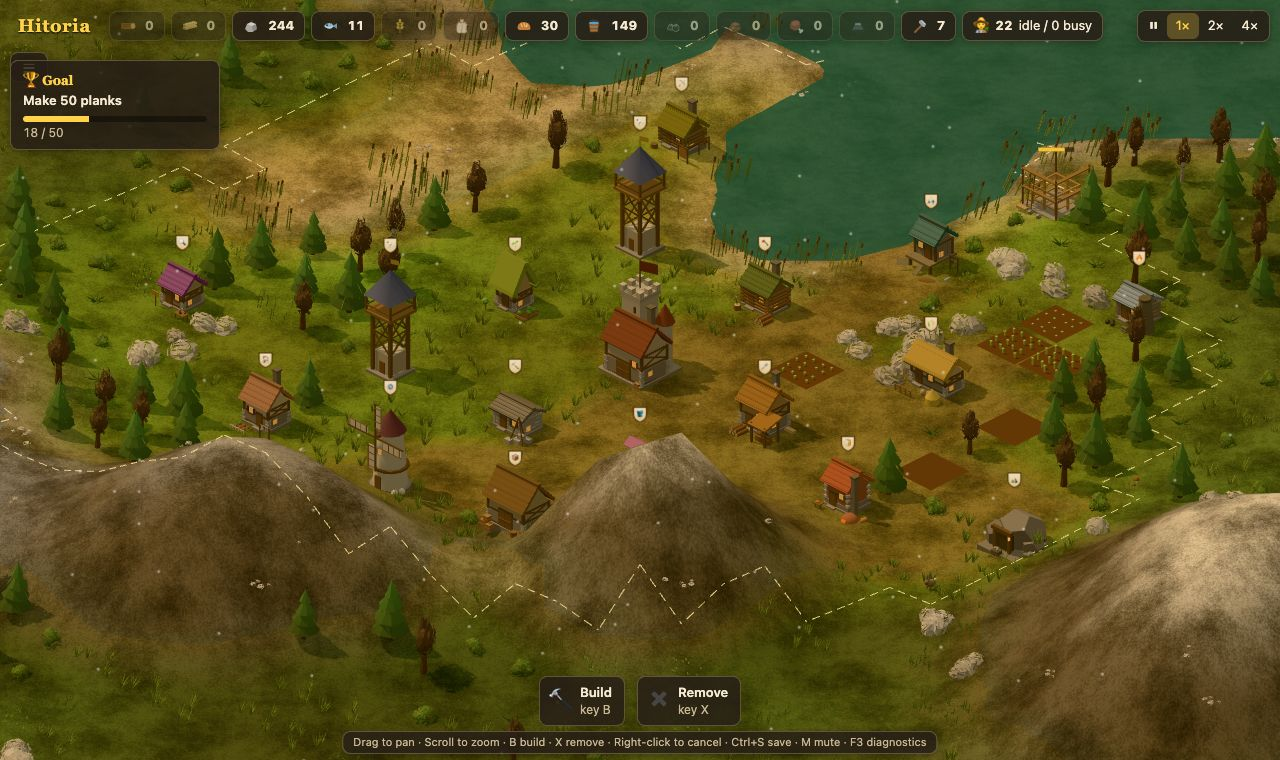
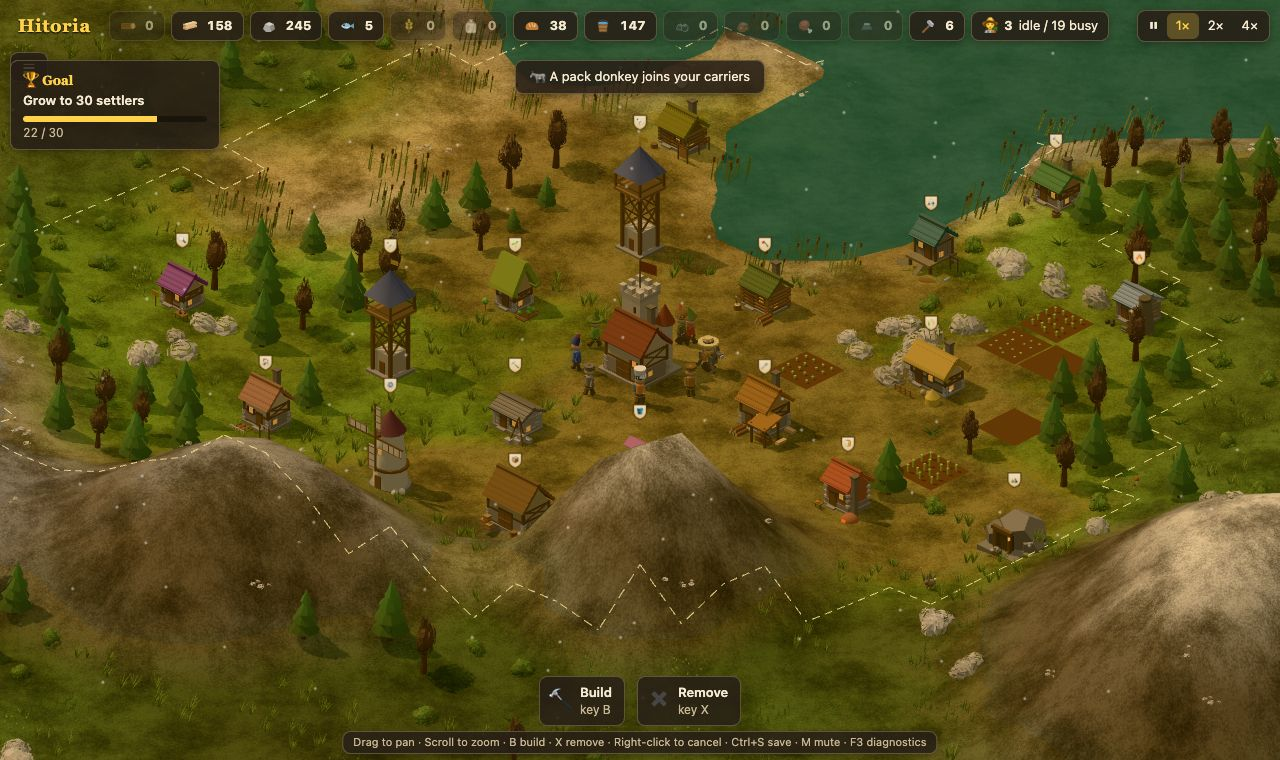
Pack donkeys: donkeys join the carriers and carry two goods at once

diff --git a/README.md b/README.md
@@ -4,7 +4,7 @@ A peaceful 2.5D settlement builder for the browser, inspired by *The Settlers*.
 
 **Play it in your browser:** https://koszcz.github.io/hitoria/
 
-![A village around the HQ keep, beside a bay and below a mountain: huts, a farm with its fields of grain, a windmill, two lookout towers, a hunter's lodge, a geologist's hut, a smelter, a toolmaker's workshop and a stone mine, with worn dirt paths between them. It is early winter, so the first snow falls and the leafy trees are bare. The current goal shows at the top left](docs/screenshot.jpg)
+![A village around the HQ keep, beside a bay and below a mountain: huts, a farm with its fields of grain, a windmill, two lookout towers, a hunter's lodge, a geologist's hut, a smelter, a toolmaker's workshop and a stone mine, with worn dirt paths between them. It is early winter, so the first snow falls and the leafy trees are bare. The current goal shows at the top left, and a message says a pack donkey has joined the carriers](docs/screenshot.jpg)
 
 ## How to play
 
@@ -239,9 +239,9 @@ both choices. Browsers block sound until you click or press a key, so the sound 
 | File | What it does |
 | --- | --- |
 | `src/world.ts` | Seeded map generation: island, forests, boulders, mountains, the mountain and bay every start gets, the second island across the bay, and where coal and iron ore lie |
-| `src/game/` | Simulation: buildings, demolishing, worn paths, walking distances, settlers, wild animals, hunting, carriers, farm fields, food, harbours and their docks, the trade ship, homes (the HQ and the harbour settlers build on the second island), the voyage to settle it, the tools new workers take, rich spots and the geologist (`geology.ts`), goals and saving |
+| `src/game/` | Simulation: buildings, demolishing, worn paths, walking distances, settlers, wild animals, hunting, carriers and pack donkeys (`donkeys.ts`), farm fields, food, harbours and their docks, the trade ship, homes (the HQ and the harbour settlers build on the second island), the voyage to settle it, the tools new workers take, rich spots and the geologist (`geology.ts`), goals and saving |
 | `src/path.ts` | A* pathfinding on the tile grid |
-| `src/render/` | Three.js 3D renderer: terrain, water, buildings, settlers, animals, ships, the geologist's signs (`signs.ts`), overlays, the light for each time of day (`daylight.ts`), and the season's colours and snow (`seasonal.ts`, `snowfall.ts`). Keeps the isometric camera angle. `looks.ts` gives each building its body shape and colours |
+| `src/render/` | Three.js 3D renderer: terrain, water, buildings, settlers, animals, pack donkeys, ships, the geologist's signs (`signs.ts`), overlays, the light for each time of day (`daylight.ts`), and the season's colours and snow (`seasonal.ts`, `snowfall.ts`). Keeps the isometric camera angle. `looks.ts` gives each building its body shape and colours |
 | `src/seasons/` | The year clock, how the island looks at each point in the year, and when grain grows |
 | `src/quality/` | The graphics setting, and Auto, which lowers it when frames are slow |
 | `src/sound/` | Wind and wave sound, how loud each is from what the camera sees, the background tune (`tune.ts` writes the notes, `music.ts` plays them), and the mute and music volume settings |
@@ -291,6 +291,11 @@ There are no roads. A carrier takes one good from the building that has it and w
 quickest way across the grass, all the way to the building that needs it. Spare goods go to the
 store that is nearest on foot. The tile in front of each door stays open, so nothing can be
 built there, and settlers can always get in.
+
+When at least 8 goods wait to move, pack donkeys join the carriers. A donkey carries 2 goods of
+one kind at once, one in each basket. You get one donkey for every 4 buildings, counting the HQ.
+Donkeys are not settlers, so they never take a worker from you. They go back to the HQ when the
+work is done.
 
 Settlers' footsteps wear the grass into dirt paths. Settlers walk up to 1.25×
 faster on a well-worn path, so they keep to the same lines. A path nobody walks for a minute

diff --git a/ideas/backlog.md b/ideas/backlog.md
@@ -4,7 +4,7 @@ How to add and triage ideas: see [README.md](README.md).
 
 ## Building now
 
-- **Pack donkeys**: when many goods wait to move, a donkey joins the carriers and carries two goods at once along the worn paths. *Fun 2 · Effort M · Needs: No player roads · Approved · Branch: worktree-agent-a503c56e41ab41409*
+Nothing right now.
 
 ## Next
 
@@ -44,6 +44,7 @@ Triaged, but not next.
 
 Newest first, with the date it was merged.
 
+- **Pack donkeys**: when many goods wait to move, a donkey joins the carriers and carries two goods at once along the worn paths. *2026-11-01*
 - **No player roads**: the road tool, flags, auto-road and the road warning sign go away, because paths form by themselves. Old saves still load. *2026-11-01*
 - **Geologist**: a settler who finds rich spots in mountains, so you place mines for a reason. A mine on a rich spot works twice as fast. The geologist puts up small signs that show what lies below. *2026-11-01*
 - **Trade ship**: a trade ship visits your harbour every few minutes. While it is tied up, you swap spare goods for goods you lack, at fixed rates. *2026-11-01*

diff --git a/changelog/entries/2026-11-01-pack-donkeys.md b/changelog/entries/2026-11-01-pack-donkeys.md
@@ -3,15 +3,15 @@ title: Pack donkeys
 date: '2026-11-01 18:00'
 shots:
   - name: donkey
-    caption: A pack donkey carries two planks to a monument site.
+    caption: A grey pack donkey, next to the builder, helps bring goods to a new monument site.
     steps:
       - key: b
       - click: '#buildmenu .tile[data-type="monument"]'
       - click: [160, 40]
       - key: Escape
-      - wait: 9000
-      - wheel: -4
-      - wait: 500
+      - hover: [80, 0]
+      - wheel: -6
+      - wait: 300
 ---
 When many goods wait to move, pack donkeys now join your carriers. A donkey carries two goods at
 once, one in each basket on its back, and walks the same worn paths as your settlers.
